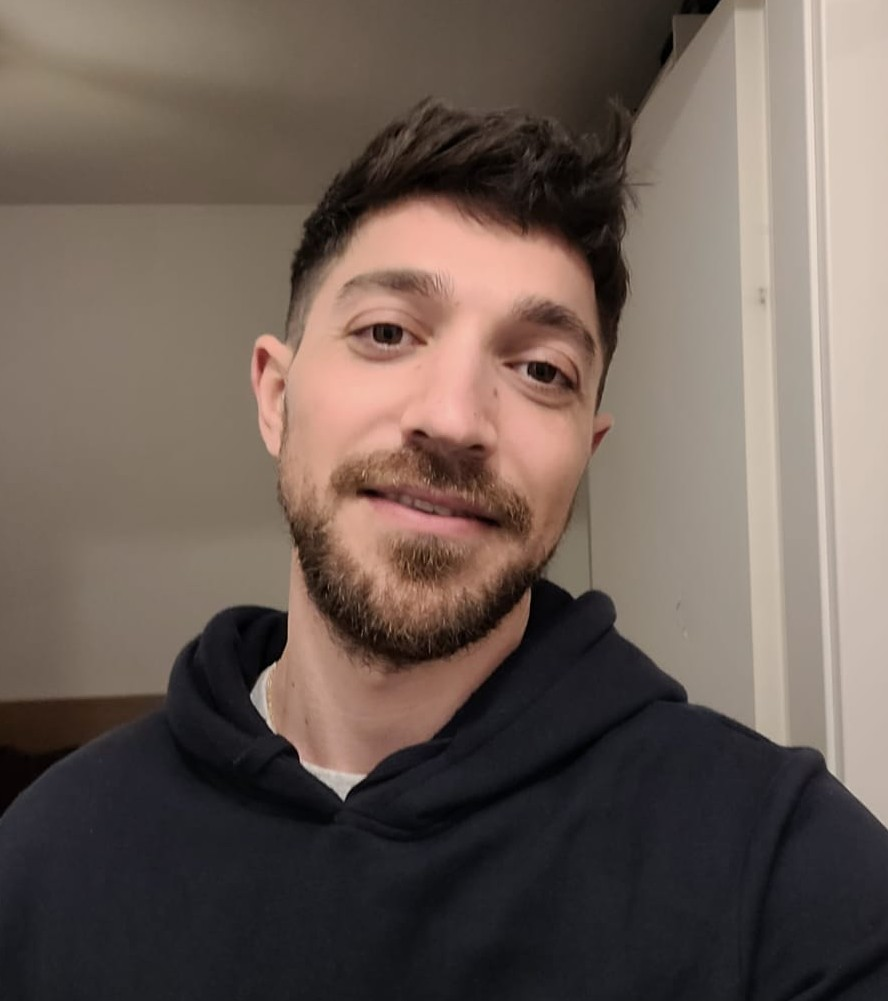
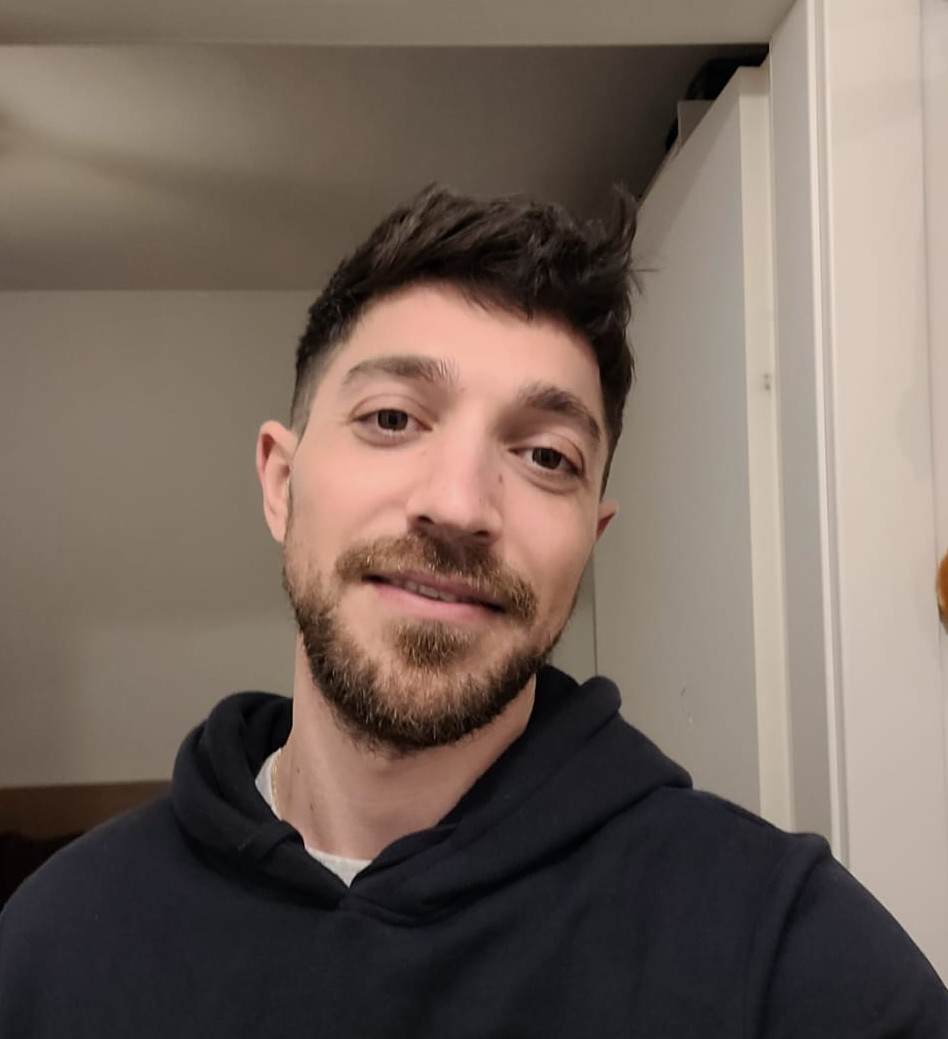
add some changes to the selfie image

diff --git a/about/src/pages/home.jsx b/about/src/pages/home.jsx
@@ -21,7 +21,7 @@ import {
     faFileWord,
     faPassport
 } from '@fortawesome/free-solid-svg-icons';
-import selfie from '../img/AdiYd.jpeg';
+import selfie from '../img/AdiYd2.jpeg';
 import tau from '../img/TAU_university_logo_ENG.png';
 import tau2 from '../img/TAU_Logo.png';
 // import udemyLogo from '../img/udemyLogo.svg';
@@ -721,15 +721,13 @@ second: {
 
             <div className={`${pdfMode ? '': 'card'} !block p-2`}>
               {!pdfMode && (
-                    <div id="profileImg" className="w-fit relative transition-all float-right avatar overflow-hidden shadow-md">
-                        <div className="w-24 mask overflow-hidden transition-all !contents ">
+                    <div id="profileImg" className="w-fit relative transition-all shadow-lg shadow-accent float-right avatar mask mask-squircle overflow-hidden">
                             <img
                                 src={selfie}
                                 alt="Portrait of Adi Yehuda"
                                 title="Adi Yehuda"
-                                className="hover:scale-125 transition-all"
+                                className="hover:scale-110 !w-24 !h-24  transition-all"
                             />
-                        </div>
                     </div>
                 )}
 

diff --git a/about/src/components/components.css b/about/src/components/components.css
@@ -187,12 +187,12 @@ span.educationImg img#pdfImg {
 }
 
 div#profileImg {
-    @apply float-right max-sm:float-none bg-base-100 m-5 mt-0 rounded-full flex border border-info;
+    @apply  max-sm:float-none m-5 mt-0 flex overflow-hidden;
 }
 
-div#profileImg img {
+/* div#profileImg img {
     @apply w-24 h-24 rounded-full;
-}
+} */
 
 .animUp:hover {
     transform: translateY(-1vh);
